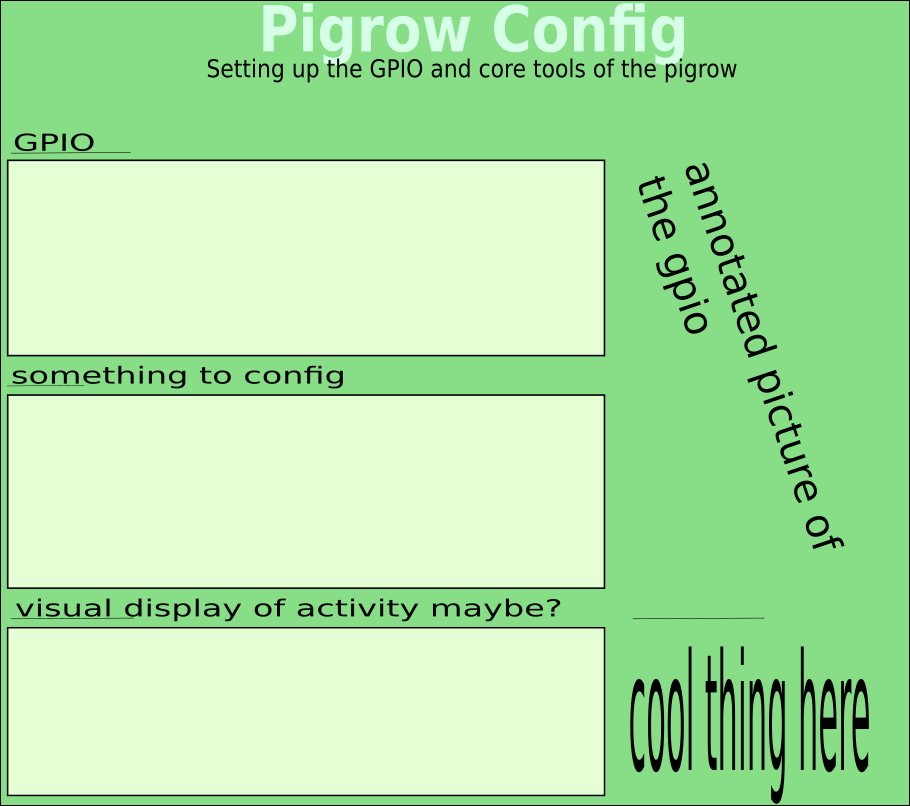
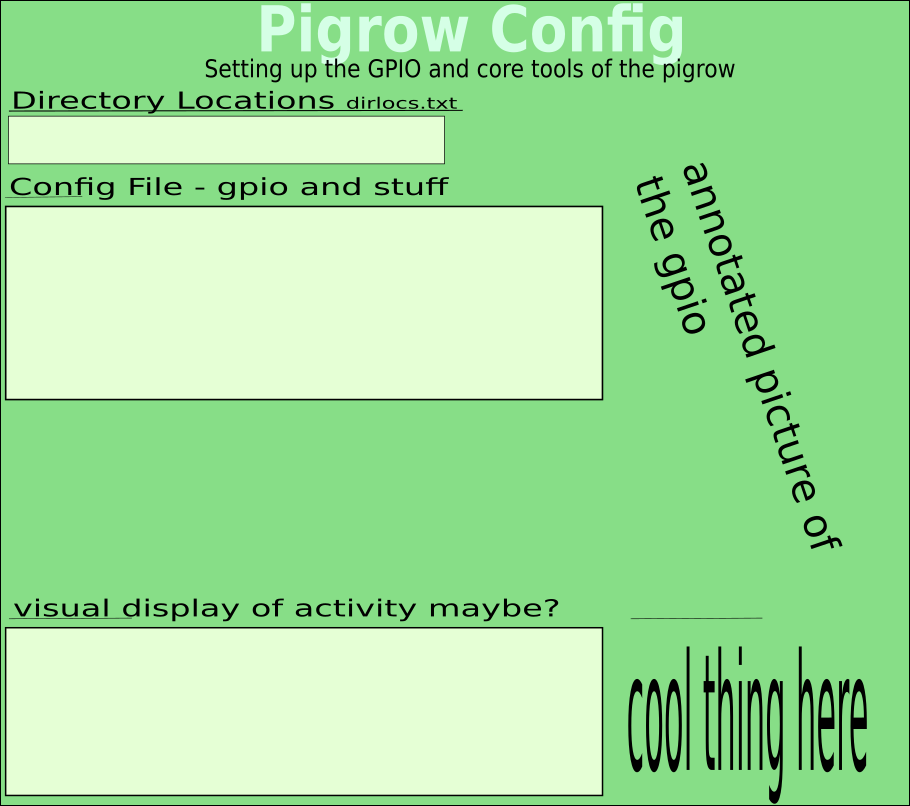
working on config tab

diff --git a/scripts/gui/pigrow_remote.py b/scripts/gui/pigrow_remote.py
@@ -300,10 +300,211 @@ class config_ctrl_pnl(wx.Panel):
         wx.Panel.__init__ ( self, parent, id = wx.ID_ANY, pos = (0, height_of_pannels_above), size = wx.Size(285, space_left), style = wx.TAB_TRAVERSAL )
         # Start drawing the UI elements
         wx.StaticText(self,  label='Pigrow Config', pos=(25, 10))
-        self.update_local_filelist_btn = wx.Button(self, label='config 1', pos=(15, 60), size=(175, 30))
-        #self.update_local_filelist_btn.Bind(wx.EVT_BUTTON, self._click)
+        self.update_config_btn = wx.Button(self, label='read config from pigrow', pos=(15, 60), size=(175, 30))
+        self.update_config_btn.Bind(wx.EVT_BUTTON, self.update_config_click)
         self.download_btn = wx.Button(self, label='config 2', pos=(15, 95), size=(175, 30))
         #self.download_btn.Bind(wx.EVT_BUTTON, self._click)
+
+    def update_config_click(self, e):
+        #define file locations
+        pigrow_config_folder = "/home/" + pi_link_pnl.target_user + "/Pigrow/config/"
+        pigrow_dirlocs = pigrow_config_folder + "dirlocs.txt"
+        #read pigrow locations file
+        try:
+            stdin, stdout, stderr = ssh.exec_command("cat " + pigrow_dirlocs)
+            dirlocs = stdout.read().splitlines()
+        except Exception as e:
+            print("reading dirlocs.txt failed; " + str(e))
+        dirlocs_dict = {}
+        if len(dirlocs) > 1:
+            for item in dirlocs:
+                try:
+                    item = item.split("=")
+                    #dirlocs_dict = {item[0]:item[1]}
+                    dirlocs_dict[item[0]] = item[1]
+                except:
+                    print("!!error reading value from dirlocs; " + str(item))
+        #We've now created dirlocs_dict with key:value for every setting:value in dirlocs
+        #now we grab some of the important ones from the dictionary
+         #folder location info (having this in a file on the pi makes it easier if doing things odd ways)
+        location_msg = ""
+        location_problems = []
+        try:
+            pigrow_path = dirlocs_dict['path']
+        #    location_msg += pigrow_path + "\n"
+        except:
+            location_msg += ("No path locaion info in pigrow dirlocs\n")
+            pigrow_path = ""
+            location_problems.append("path")
+        try:
+            pigrow_logs_path = dirlocs_dict['log_path']
+        #    location_msg += pigrow_logs_path + "\n"
+        except:
+            location_msg += ("No logs locaion info in pigrow dirlocs\n")
+            pigrow_logs_path = ""
+            location_problems.append("log_path")
+        try:
+            pigrow_graph_path = dirlocs_dict['graph_path']
+        #    location_msg += pigrow_graph_path + "\n"
+        except:
+            location_msg += ("No graph locaion info in pigrow dirlocs\n")
+            pigrow_graph_path = ""
+            location_problems.append("graph_path")
+        try:
+            pigrow_caps_path = dirlocs_dict['caps_path']
+        #    location_msg += pigrow_caps_path + "\n"
+        except:
+            location_msg += ("No caps locaion info in pigrow dirlocs\n")
+            pigrow_caps_path = ""
+            location_problems.append("caps_path")
+
+         #settings file locations
+        try:
+            pigrow_settings_path = dirlocs_dict['loc_settings']
+        except:
+            location_msg += ("No pigrow config file locaion info in pigrow dirlocs\n")
+            pigrow_settings_path = ""
+            location_problems.append("loc_settings")
+        try:
+            pigrow_cam_settings_path = dirlocs_dict['camera_settings']
+        except:
+            location_msg +=("no camera settings file locaion info in pigrow dirlocs (optional)\n")
+            pigrow_cam_settings_path = ""
+
+         # log file locations
+        try:
+            pigrow_err_log_path = dirlocs_dict['err_log']
+        except:
+            location_msg += ("No err log locaion info in pigrow dirlocs\n")
+            pigrow_err_log_path = ""
+            location_problems.append("err_log")
+        try:
+            pigrow_self_log_path = dirlocs_dict['self_log']
+        except:
+            location_msg += ("No self_log locaion info in pigrow dirlocs (optional)\n")
+            pigrow_self_log_path = ""
+        try:
+            pigrow_switchlog_path = dirlocs_dict['loc_switchlog']
+        except:
+            location_msg += "No switchlog locaion info in pigrow dirlocs (optional)\n"
+            pigrow_switchlog_path = ""
+        try:
+            pigrow_dht_log_path = dirlocs_dict['loc_dht_log']
+        except:
+            location_msg += "No DHT log locaion info in pigrow dirlocs (optional)\n"
+            pigrow_dht_log_path = ""
+        #check to see if there were problems and tell the user.
+        if len(location_problems) == 0:
+            location_msg += ("All vital locations present")
+        else:
+            location_msg += "Important location information missing! " + str(location_problems) + " not found"
+        #display on screen
+        system_info_pnl.location_text.SetLabel(location_msg)
+        #read pigrow config file
+        try:
+            stdin, stdout, stderr = ssh.exec_command("cat " + pigrow_settings_path)
+            pigrow_settings = stdout.read().splitlines()
+        except Exception as e:
+            print("reading dirlocs.txt failed; " + str(e))
+        #define empty dictionaries
+        config_dict = {}
+        gpio_dict = {}
+        gpio_on_dict = {}
+        #go through the setting file and put them in the correct dictionary
+        if len(pigrow_settings) > 1:
+            for item in pigrow_settings:
+                try:
+                    item = item.split("=")
+                    line_split = item[0].split("_")
+                    if line_split[0] == 'gpio' and not item[1] == "":
+                        if len(line_split) == 2:
+                            gpio_dict[line_split[1]] = item[1]
+                        elif len(line_split) == 3:
+                            gpio_on_dict[str(line_split[1])] = item[1]
+                    else:
+                        config_dict[item[0]] = item[1]
+                except:
+                    print("!!error reading value from config file; " + str(item))
+        # we've now created config_dict with a list of all the items in the config file
+        #   and gpio_dict and gpio_on_dict with gpio numbers and low/high pin direction info
+
+        #unpack non-gpio information from config file
+        config_problems = []
+        config_msg = ''
+        if "log_frequency" in config_dict:
+            log_frequency = config_dict["log_frequency"]
+            config_msg += "Logging dht every " + str(log_frequency) + " seconds. \n"
+        else:
+            log_frequency = ""
+            config_msg += "DHT Logging frequency not set\n"
+            config_problems.append('log_frequency')
+     #lamp timeing
+        if "lamp" in gpio_dict:
+            if "time_lamp_on" in config_dict:
+                lamp_on_hour = int(config_dict["time_lamp_on"].split(":")[0])
+                lamp_on_min = int(config_dict["time_lamp_on"].split(":")[1])
+
+            else:
+                lamp_on_time = ""
+                config_msg += "lamp on time not set\n"
+                config_problems.append('lamp')
+            if "time_lamp_off" in config_dict:
+                lamp_off_hour = int(config_dict["time_lamp_off"].split(":")[0])
+                lamp_off_min = int(config_dict["time_lamp_off"].split(":")[1])
+            else:
+                lamp_off_time = ""
+                config_msg += "lamp off time not set\n"
+                config_problems.append('lamp')
+        #    if not 'lamp' in config_problems:
+                #
+                #
+                # THIS IS WHERE IT IS BROKEN !!!
+                #
+                #
+
+            #         now = datetime.datetime.now()
+            #         today_time_lamp_on = now
+            #         today_time_lamp_off = now
+            # if today_time_lamp_on > today_time_lamp_off:
+            #     today_time_lamp_off = today_time_lamp_off + timedelta(days=1)
+            # length_lamp_on = today_time_lamp_off - today_time_lamp_on
+            # config_msg += "Lamp turning on at " + str(lamp_on_hour) + ":" + str(lamp_on_min) + " and off at " + str(lamp_off_hour) + ":" + str(lamp_off_min)
+            # config_msg += " (on " + str(length_lamp_on) # + "hours, off "  +str(aday - length_lamp_on) + ")\n"
+        else:
+            config_msg += "no lamp linked to gpio, ignoring lamp timing settings\n"
+     #heater on and off temps
+        if "heater" in gpio_dict:
+            if "heater_templow" in config_dict:
+                heater_templow =  config_dict["heater_templow"]
+            else:
+                heater_templow = ""
+                config_msg += "heater low temp not set\n"
+                config_problems.append('heater_templow')
+            if "heater_temphigh" in config_dict:
+                heater_temphigh = config_dict["heater_temphigh"]
+            else:
+                heater_temphigh = ""
+                config_msg += "heater high temp not set\n"
+                config_problems.append('heater_temphigh')
+        else:
+            config_msg += "no heater linked to gpio, ignoring heater temp settings\n"
+
+
+
+
+        #display information in config file area
+        config_msg += "We have " + str(len(gpio_dict)) + " devices linked to the GPIO\n"
+        if "dht22sensor" in gpio_dict:
+            config_msg += "DHT Sensor on pin " + str(gpio_dict['dht22sensor'] + "\n")
+        else:
+            config_msg += "DHT Sensor not linked\n"
+        gpio_count = 0
+        #checks to see if gpio devices with on directions are also linked to a gpio pin and counts them
+        for key in gpio_on_dict:
+            if key in gpio_dict:
+                gpio_count = gpio_count + 1
+        config_msg += "found " + str(gpio_count) + " relay switch linked gpio pins"
+        system_info_pnl.config_text.SetLabel(config_msg)
 
 class config_info_pnl(wx.Panel):
     #  This displays the config info
@@ -317,7 +518,8 @@ class config_info_pnl(wx.Panel):
         png = wx.Image('./config_info.png', wx.BITMAP_TYPE_ANY).ConvertToBitmap()
         wx.StaticBitmap(self, -1, png, (0, 0), (png.GetWidth(), png.GetHeight()))
         #SDcard details
-        system_info_pnl.config_text = wx.StaticText(self,  label='config', pos=(250, 180), size=(200,30))
+        system_info_pnl.location_text = wx.StaticText(self,  label='locations', pos=(25, 130), size=(200,30))
+        system_info_pnl.config_text = wx.StaticText(self,  label='config', pos=(10, 210), size=(200,30))
 
 class cron_info_pnl(wx.Panel):
     def __init__( self, parent ):
@@ -1276,7 +1478,7 @@ class localfiles_ctrl_pnl(wx.Panel):
     def update_local_filelist_click(self, e):
         #set local files path
         if localfiles_info_pnl.local_path == "":
-            computer_username = "pragmo"
+            computer_username = "pragmo" #change this to make the right path for all users and operating systems
             localfiles_info_pnl.local_path = "/home/" + computer_username + "/frompigrow/" + str(pi_link_pnl.boxname) + "/"
             localfiles_info_pnl.local_path_txt.SetLabel("\n" + localfiles_info_pnl.local_path)
         if not os.path.isdir(localfiles_info_pnl.local_path):
